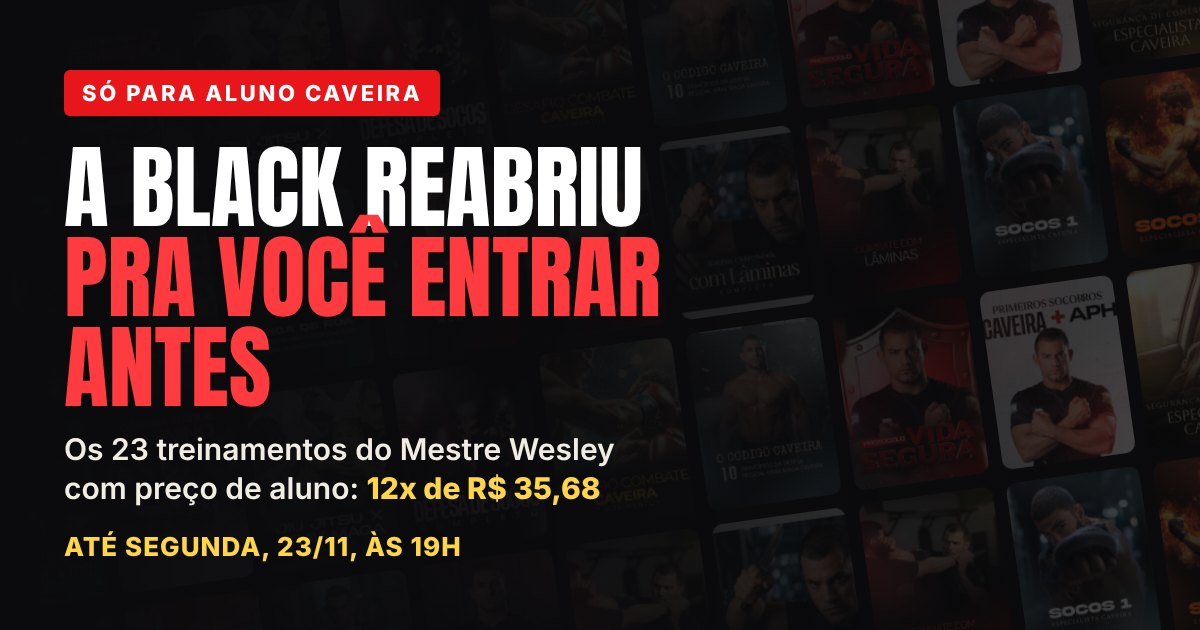
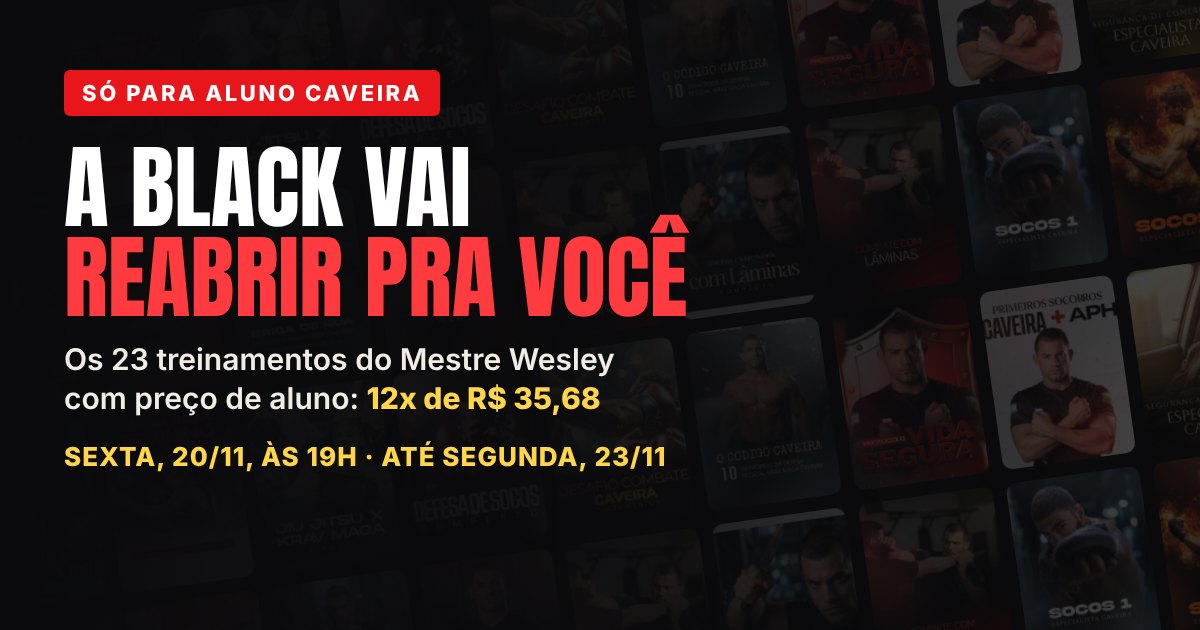
E-mail Academia v2 (vai reabrir), stories pos-enquete, modelo de acesso v2
Claude-Session: https://claude.ai/code/session_01ShBYSwBMVNtHb9FwppkWCb

Changed region(s): [[0.0308, 0.2111, 0.5858, 0.6635], [0.0308, 0.6937, 0.555, 0.8143], [0.0308, 0.8444, 0.4008, 0.9048]]

diff --git a/conteudo/2026-11-19/stories/_src/stories.html b/conteudo/2026-11-19/stories/_src/stories.html
@@ -1,0 +1,84 @@
+<!doctype html><html><head><meta charset="utf-8"><style>
+@font-face{font-family:Anton;src:url(Anton.ttf)}
+*{box-sizing:border-box;margin:0;padding:0}
+body{background:#000}
+:root{--r:#e10600;--y:#ffd400}
+.s{position:relative;width:1080px;height:1920px;overflow:hidden;background:#0b0b0b;font-family:Inter,sans-serif;color:#fff}
+.bg{position:absolute;inset:0;background-size:cover}
+.abs{position:absolute}
+.safe{position:absolute;left:110px;width:835px}
+.tag{display:inline-block;background:var(--r);font:700 38px Inter;letter-spacing:3px;padding:14px 28px;border-radius:8px}
+.h{font-family:Anton;text-transform:uppercase;line-height:1.02}
+.y{color:var(--y)}.red{color:var(--r)}
+.small{font:600 44px/1.3 Inter}
+.date{background:var(--y);color:#000;font:800 52px Inter;padding:22px 34px;border-radius:12px;display:inline-block}
+.brand{position:absolute;left:0;width:1080px;text-align:center;top:1385px;font:700 30px Inter;letter-spacing:4px;color:#ffffffaa}
+.card{display:flex;align-items:center;gap:30px;background:#161616;border:3px solid #333;border-left:16px solid var(--r);border-radius:20px;padding:20px 30px;margin-bottom:22px}
+.card .n{font-family:Anton;font-size:110px;line-height:1;color:var(--y);min-width:150px;text-align:center}
+.card .t{font:700 42px/1.15 Inter}
+.card .t small{display:block;font:500 32px/1.25 Inter;color:#ccc;margin-top:8px}
+.grid{display:grid;grid-template-columns:1fr 1fr 1fr;gap:22px}
+.grid img{width:100%;border-radius:16px;display:block;border:3px solid #2a2a2a}
+.more{background:var(--r);border-radius:16px;display:flex;align-items:center;justify-content:center;text-align:center;font:400 64px/1.05 Anton;text-transform:uppercase;aspect-ratio:1}
+</style></head><body>
+
+<!-- 1 -->
+<div class="s" id="s1">
+ <div class="bg" style="background-image:url(hero.jpg);background-position:62% 50%;background-size:auto 100%"></div>
+ <div class="abs" style="inset:0;background:linear-gradient(180deg,#000c 0%,#0000 28%,#000d 55%,#000 82%)"></div>
+ <div class="safe" style="top:300px"><span class="tag">BLACK CAVEIRA 2026</span></div>
+ <div class="safe" style="top:600px">
+  <div class="h" style="font-size:190px">A BLACK<br>CAVEIRA<br><span class="red">VAI VOLTAR</span></div>
+  <div style="height:44px"></div>
+  <div class="date">SEXTA, 20/11, ÀS 19H</div>
+  <div class="small" style="margin-top:36px;color:#eee">Respondeu NÃO na enquete? Essa é a sua segunda chance.</div>
+ </div>
+</div>
+
+<!-- 2 -->
+<div class="s" id="s2">
+ <div class="bg" style="background:radial-gradient(circle at 50% 0%,#5a0000 0%,#0b0b0b 60%)"></div>
+ <div class="safe" style="top:300px">
+  <span class="tag">SEXTA, 20/11, A PARTIR DAS 19H</span>
+  <div class="h" style="font-size:104px;margin-top:26px">QUEM ENTRAR<br><span class="y">PRIMEIRO</span> LEVA<br>PRÊMIO</div>
+ </div>
+ <div class="safe" style="top:760px">
+  <div class="card"><div class="n">3</div><div class="t">primeiros pagamentos aprovados<small>ganham a camisa Caveira</small></div></div>
+  <div class="card"><div class="n">20</div><div class="t">primeiros entram num encontro ao vivo<small>com o Mestre Wesley</small></div></div>
+  <div class="card"><div class="n">6</div><div class="t">livros digitais do Mestre<small>para quem garantir até 23h59 de sexta</small></div></div>
+ </div>
+</div>
+
+<!-- 3 -->
+<div class="s" id="s3">
+ <div class="bg" style="background:radial-gradient(circle at 50% 100%,#4a0000 0%,#0b0b0b 65%)"></div>
+ <div class="safe" style="top:300px">
+  <span class="tag">MESTRE WESLEY GIMENEZ</span>
+  <div class="h" style="font-size:112px;margin-top:26px"><span class="y">23</span> TREINAMENTOS<br>NUM SÓ LUGAR</div>
+ </div>
+ <div class="safe" style="top:700px">
+  <div class="grid">
+   <img src="curso_vida_segura-1.jpg"><img src="curso_dpc2-5.jpg"><img src="curso_contra_ataque_feminino-6.jpg">
+   <img src="curso_modo_caveira-7.jpg"><img src="curso_briga_rua-8.jpg"><div class="more">e<br>mais<br>18</div>
+  </div>
+  <div class="small" style="margin-top:34px;font-size:40px">Aprenda a se proteger e a proteger sua família. Certificado ao concluir e 7 dias de garantia.</div>
+ </div>
+</div>
+
+<!-- 4 -->
+<div class="s" id="s4">
+ <div class="bg" style="background-image:url(hero.jpg);background-position:70% 50%;background-size:auto 100%;filter:brightness(.55)"></div>
+ <div class="abs" style="inset:0;background:linear-gradient(180deg,#000b 0%,#0007 40%,#000e 80%)"></div>
+ <div class="safe" style="top:300px">
+  <div class="h" style="font-size:150px">QUER SER<br>AVISADO<br><span class="y">PRIMEIRO?</span></div>
+  <div class="small" style="margin-top:44px;font-size:52px">Responde este story com a palavra abaixo e eu te mando o aviso assim que abrir:</div>
+ </div>
+ <div class="safe" style="top:1010px">
+  <div style="background:#fff;color:#000;border-radius:80px;padding:34px 48px;display:flex;align-items:center;justify-content:space-between;box-shadow:0 0 0 8px #e10600">
+   <span class="h" style="font-size:110px;letter-spacing:4px">CAVEIRA</span>
+   <span style="font:700 40px Inter;color:#e10600">enviar</span>
+  </div>
+  <div class="small" style="margin-top:50px;font-size:44px;color:#fff">Abre sexta, 20/11, às 19h.<br>Fecha segunda, 23/11, às 19h.</div>
+ </div>
+</div>
+</body></html>

diff --git a/conteudo/2026-11-19/email-academia/banner.html b/conteudo/2026-11-19/email-academia/banner.html
@@ -16,7 +16,7 @@ h1 span{color:#ff3b3f}
 </style></head><body>
 <div class="grid"><img src="https://media.atomicatmedia.net/u/yoRetjn6mOhzXGiNjxTeG9wI7g22/Pictures/mcp/AinQ/curso_kids-2.webp"><img src="https://media.atomicatmedia.net/u/yoRetjn6mOhzXGiNjxTeG9wI7g22/Pictures/mcp/AinQ/curso_contra_ataque_feminino-6.webp"><img src="https://media.atomicatmedia.net/u/yoRetjn6mOhzXGiNjxTeG9wI7g22/Pictures/mcp/AinQ/curso_jiujitsu_kravmaga-10.webp"><img src="https://media.atomicatmedia.net/u/yoRetjn6mOhzXGiNjxTeG9wI7g22/Pictures/mcp/AinQ/curso_defesa_socos-14.webp"><img src="https://media.atomicatmedia.net/u/yoRetjn6mOhzXGiNjxTeG9wI7g22/Pictures/mcp/AinQ/curso_desafio_combate-18.webp"><img src="https://media.atomicatmedia.net/u/yoRetjn6mOhzXGiNjxTeG9wI7g22/Pictures/mcp/AinQ/curso_codigo_caveira-2.webp"><img src="https://media.atomicatmedia.net/u/yoRetjn6mOhzXGiNjxTeG9wI7g22/Pictures/mcp/AinQ/curso_vida_segura-1.webp"><img src="https://media.atomicatmedia.net/u/yoRetjn6mOhzXGiNjxTeG9wI7g22/Pictures/mcp/AinQ/curso_primeiros_socorros-3.webp"><img src="https://media.atomicatmedia.net/u/yoRetjn6mOhzXGiNjxTeG9wI7g22/Pictures/mcp/AinQ/curso_seguranca_comercios-4.webp"><img src="https://media.atomicatmedia.net/u/yoRetjn6mOhzXGiNjxTeG9wI7g22/Pictures/mcp/AinQ/curso_dpc2-5.webp"><img src="https://media.atomicatmedia.net/u/yoRetjn6mOhzXGiNjxTeG9wI7g22/Pictures/mcp/AinQ/curso_modo_caveira-7.webp"><img src="https://media.atomicatmedia.net/u/yoRetjn6mOhzXGiNjxTeG9wI7g22/Pictures/mcp/AinQ/curso_briga_rua-8.webp"><img src="https://media.atomicatmedia.net/u/yoRetjn6mOhzXGiNjxTeG9wI7g22/Pictures/mcp/AinQ/curso_protocolo_mcd-9.webp"><img src="https://media.atomicatmedia.net/u/yoRetjn6mOhzXGiNjxTeG9wI7g22/Pictures/mcp/AinQ/curso_defesa_laminas-11.webp"><img src="https://media.atomicatmedia.net/u/yoRetjn6mOhzXGiNjxTeG9wI7g22/Pictures/mcp/AinQ/curso_combate_laminas-12.webp"><img src="https://media.atomicatmedia.net/u/yoRetjn6mOhzXGiNjxTeG9wI7g22/Pictures/mcp/AinQ/curso_combate_laminas2-13.webp"><img src="https://media.atomicatmedia.net/u/yoRetjn6mOhzXGiNjxTeG9wI7g22/Pictures/mcp/AinQ/curso_socos1-15.webp"><img src="https://media.atomicatmedia.net/u/yoRetjn6mOhzXGiNjxTeG9wI7g22/Pictures/mcp/AinQ/curso_socos2-16.webp"><img src="https://media.atomicatmedia.net/u/yoRetjn6mOhzXGiNjxTeG9wI7g22/Pictures/mcp/AinQ/curso_kids-2.webp"><img src="https://media.atomicatmedia.net/u/yoRetjn6mOhzXGiNjxTeG9wI7g22/Pictures/mcp/AinQ/curso_contra_ataque_feminino-6.webp"><img src="https://media.atomicatmedia.net/u/yoRetjn6mOhzXGiNjxTeG9wI7g22/Pictures/mcp/AinQ/curso_jiujitsu_kravmaga-10.webp"><img src="https://media.atomicatmedia.net/u/yoRetjn6mOhzXGiNjxTeG9wI7g22/Pictures/mcp/AinQ/curso_defesa_socos-14.webp"><img src="https://media.atomicatmedia.net/u/yoRetjn6mOhzXGiNjxTeG9wI7g22/Pictures/mcp/AinQ/curso_desafio_combate-18.webp"><img src="https://media.atomicatmedia.net/u/yoRetjn6mOhzXGiNjxTeG9wI7g22/Pictures/mcp/AinQ/curso_codigo_caveira-2.webp"><img src="https://media.atomicatmedia.net/u/yoRetjn6mOhzXGiNjxTeG9wI7g22/Pictures/mcp/AinQ/curso_vida_segura-1.webp"><img src="https://media.atomicatmedia.net/u/yoRetjn6mOhzXGiNjxTeG9wI7g22/Pictures/mcp/AinQ/curso_primeiros_socorros-3.webp"><img src="https://media.atomicatmedia.net/u/yoRetjn6mOhzXGiNjxTeG9wI7g22/Pictures/mcp/AinQ/curso_seguranca_comercios-4.webp"><img src="https://media.atomicatmedia.net/u/yoRetjn6mOhzXGiNjxTeG9wI7g22/Pictures/mcp/AinQ/curso_dpc2-5.webp"><img src="https://media.atomicatmedia.net/u/yoRetjn6mOhzXGiNjxTeG9wI7g22/Pictures/mcp/AinQ/curso_modo_caveira-7.webp"><img src="https://media.atomicatmedia.net/u/yoRetjn6mOhzXGiNjxTeG9wI7g22/Pictures/mcp/AinQ/curso_briga_rua-8.webp"><img src="https://media.atomicatmedia.net/u/yoRetjn6mOhzXGiNjxTeG9wI7g22/Pictures/mcp/AinQ/curso_protocolo_mcd-9.webp"><img src="https://media.atomicatmedia.net/u/yoRetjn6mOhzXGiNjxTeG9wI7g22/Pictures/mcp/AinQ/curso_defesa_laminas-11.webp"><img src="https://media.atomicatmedia.net/u/yoRetjn6mOhzXGiNjxTeG9wI7g22/Pictures/mcp/AinQ/curso_combate_laminas-12.webp"><img src="https://media.atomicatmedia.net/u/yoRetjn6mOhzXGiNjxTeG9wI7g22/Pictures/mcp/AinQ/curso_combate_laminas2-13.webp"><img src="https://media.atomicatmedia.net/u/yoRetjn6mOhzXGiNjxTeG9wI7g22/Pictures/mcp/AinQ/curso_socos1-15.webp"><img src="https://media.atomicatmedia.net/u/yoRetjn6mOhzXGiNjxTeG9wI7g22/Pictures/mcp/AinQ/curso_socos2-16.webp"></div><div class="fade"></div>
 <div class="box"><div class="tag">SÓ PARA ALUNO CAVEIRA</div>
-<h1>A Black reabriu<br><span>pra você entrar antes</span></h1>
+<h1>A Black vai<br><span>reabrir pra você</span></h1>
 <div class="p">Os 23 treinamentos do Mestre Wesley<br>com preço de aluno: <b>12x de R$ 35,68</b></div>
-<div class="fim">ATÉ SEGUNDA, 23/11, ÀS 19H</div></div>
+<div class="fim">SEXTA, 20/11, ÀS 19H · ATÉ SEGUNDA, 23/11</div></div>
 </body></html>

diff --git a/conteudo/2026-11-19/stories/render.py b/conteudo/2026-11-19/stories/render.py
@@ -1,0 +1,11 @@
+import asyncio,sys
+from playwright.async_api import async_playwright
+D='/home/claude/agente-wg/conteudo/2026-11-19/stories/'
+async def m():
+    async with async_playwright() as p:
+        b=await p.chromium.launch(); pg=await b.new_page(viewport={'width':1080,'height':1920})
+        await pg.goto('file://'+D+'_src/stories.html'); await pg.wait_for_timeout(800)
+        for i in range(1,5):
+            await pg.locator(f'#s{i}').screenshot(path=D+f'0{i}.jpg',type='jpeg',quality=93)
+        await b.close()
+asyncio.run(m())

diff --git a/conteudo/2026-11-19/email-academia/copy.md b/conteudo/2026-11-19/email-academia/copy.md
@@ -1,10 +1,11 @@
-# E-mail para a base da Academia · quinta 19/11, 18h a 18h30
+# E-mail para a base da Academia · quinta 19/11, 18h a 18h30 (v2, 13h50)
 
-Base: skills copy-conversacional-wg (nível de consciência 4 e 5: aluno que já conhece o Wesley) e oferta-irresistivel (resultado, itens com valor, garantia, para quem é, um CTA).
+Pedido do Victor (13h41): não dizer que já abriu (efeito tsunami na sexta 19h, por causa dos prêmios). Mensagem: "Só para Aluno Caveira: a Black vai reabrir pra você que ainda não entrou". Botão leva ao grupo de espera; número de suporte para quem quiser garantir antes.
+Base: skills copy-conversacional-wg (aluno já conhece o Wesley: direto ao que ganha, preço só dele e motivo real para agir) e oferta-irresistivel (itens, garantia, prêmios como bônus que resolvem "por que agora", um CTA).
 Método: igual aos disparos de 12/11 e 14/11 (modelo "Boas-vindas de compra" da Cademi, remetente "Mestre Wesley", reenvio de acesso). Fora do envio: todo aluno com a entrega da Black #275158 (já comprou). Modelo volta ao texto padrão no fim.
 
 ## Imagem do topo
-banner.jpg (capas dos cursos ao fundo): "SÓ PARA ALUNO CAVEIRA · A BLACK REABRIU PRA VOCÊ ENTRAR ANTES · Os 23 treinamentos do Mestre Wesley com preço de aluno: 12x de R$ 35,68 · ATÉ SEGUNDA, 23/11, ÀS 19H"
+banner.jpg: "SÓ PARA ALUNO CAVEIRA · A BLACK VAI REABRIR PRA VOCÊ · Os 23 treinamentos com preço de aluno: 12x de R$ 35,68 · SEXTA, 20/11, ÀS 19H"
 
 ## Abertura
 O Mestre Wesley tem um recado importante pra você!
@@ -12,7 +13,7 @@ O Mestre Wesley tem um recado importante pra você!
 ## Texto
 Shalom, tudo bem?
 
-Depois que a Black Caveira fechou, muito aluno me escreveu dizendo que não conseguiu entrar a tempo. A reabertura oficial é amanhã, sexta, às 19h. Mas você já é meu aluno, então eu liberei pra você entrar antes de todo mundo, a partir de agora.
+Depois que a Black Caveira fechou, muito aluno me escreveu dizendo que não conseguiu entrar a tempo. Então eu decidi: amanhã, sexta-feira, às 19h, a Black vai reabrir por pouco tempo, e quem já é meu aluno entra com preço especial.
 
 **O que você leva:**
 ✅ Os 23 treinamentos do Método Caveira: defesa pessoal, proteção da família, defesa contra faca, golpes e preparo físico e mental
@@ -22,22 +23,27 @@ Depois que a Black Caveira fechou, muito aluno me escreveu dizendo que não cons
 ✅ 7 dias de garantia: se não for pra você, devolvo o seu dinheiro
 
 **Preço de aluno:** 12x de R$ 35,68 ou R$ 347 à vista (quem não é aluno paga R$ 397).
-Na página, toque em **"Já sou aluno Caveira"** e confirme o seu e-mail para liberar o seu preço.
+**Quer mais tempo de acesso?** Na hora do pagamento você escolhe: ampliar para 2 anos (+ R$ 97) ou deixar vitalício (+ R$ 197). E ainda pode levar o Guia de Treino de 12 semanas, que monta a sua rotina.
 
-**Quer mais tempo de acesso?** Na hora do pagamento você escolhe: ampliar para 2 anos (+ R$ 97) ou deixar vitalício (+ R$ 197). E ainda pode levar o Guia de Treino de 12 semanas, que monta a sua rotina de estudo.
+**🎁 Presente pra quem chegar primeiro, a partir das 19h de sexta:**
+👕 Os 3 primeiros pagamentos aprovados ganham a camisa Caveira
+🎥 Os 20 primeiros entram num encontro ao vivo comigo
+📚 Quem garantir até 23h59 de sexta leva os meus 6 livros digitais
 
-[PRÊMIOS: ver decisão 1]
+A reabertura vai de sexta, 20/11, às 19h, até segunda, 23/11, às 19h. Depois disso, sai do ar.
 
-A condição de aluno vale até **segunda, 23/11, às 19h**. Depois disso, sai do ar.
+O link sai primeiro no grupo oficial. Entra agora pra receber na frente:
 
-**Botão:** QUERO ENTRAR COM PREÇO DE ALUNO
-https://www.wesleygimenez.com.br/black-caveira-2026?utm_source=vc&utm_medium=email-academia&utm_campaign=reabertura-2011&utm_content=alunos-antecipado-1911&utm_term=ag-ofertas
+**Botão:** QUERO ENTRAR NO GRUPO E RECEBER O LINK
+https://devzapp.com.br/r/s9mRreup?utm_source=vc&utm_medium=email-academia&utm_campaign=reabertura-2011&utm_content=alunos-quinta&utm_term=ag-ofertas
+
+Ficou com alguma dúvida ou quer falar com a minha equipe? Chama no WhatsApp do suporte: (31) 99329-4274.
 
 Tamo junto, Caveira!
 Mestre Wesley
 
 ## Caixa em destaque (do modelo da Cademi)
-ALUNO CAVEIRA ENTRA ANTES · 12x de R$ 35,68 ou R$ 347 · ATÉ SEGUNDA, 23/11, ÀS 19H
+SÓ PARA ALUNO CAVEIRA · A BLACK REABRE SEXTA, 20/11, ÀS 19H · Preço de aluno: 12x de R$ 35,68 ou R$ 347
 
 ## Por que essa oferta funciona
-O aluno já confia no Wesley (consciência alta), então o e-mail vai direto ao que ele ganha, ao preço que só ele tem e a um motivo real para decidir agora: entrar antes de todo mundo e o prazo de segunda. A garantia tira o risco, e os adicionais deixam quem quer mais escolher sem complicar a oferta principal.
+O aluno já confia no Wesley, então o e-mail vai direto ao que ele leva e ao preço que só ele tem. Os prêmios dos primeiros e o horário marcado concentram as compras às 19h de sexta, e o prazo real de segunda dá o motivo para não deixar para depois. A garantia tira o risco.

diff --git a/conteudo/2026-11-19/stories/sequencia.md b/conteudo/2026-11-19/stories/sequencia.md
@@ -1,0 +1,21 @@
+# Stories de hoje (19/11) · preparar a reabertura de sexta 20/11 às 19h
+
+Status: PREPARADO, nada agendado e nada publicado. Aguarda OK do Victor. Tipo STORY, só imagem, sem legenda, sem figurinha de link nem enquete. Arte 1080x1920 JPG, texto dentro de Y 285 a 1470 e X 110 a 945.
+
+## Lógica
+A enquete do Victor (~13h45) abre o assunto ("conseguiu aproveitar?"). A sequência responde em 4 passos: 1) a Black volta e quando; 2) o que ganha quem entra primeiro; 3) o que está dentro (23 treinamentos); 4) pedido único: responder o story com CAVEIRA para ser avisado primeiro. Nenhum story diz que a página está aberta, nenhum tem link ou preço. Todos terminam em "sexta, 19h".
+
+| # | Arquivo | Horário | Texto na arte | Função |
+|---|---|---|---|---|
+| 1 | 01.jpg | 15h30 | BLACK CAVEIRA 2026 / A BLACK CAVEIRA VAI VOLTAR / SEXTA, 20/11, ÀS 19H / Respondeu NÃO na enquete? Essa é a sua segunda chance. | Liga com a enquete e dá a data |
+| 2 | 02.jpg | 17h30 | SEXTA, 20/11, A PARTIR DAS 19H / QUEM ENTRAR PRIMEIRO LEVA PRÊMIO / 3 primeiros pagamentos aprovados ganham a camisa Caveira / 20 primeiros entram num encontro ao vivo com o Mestre Wesley / 6 livros digitais do Mestre para quem garantir até 23h59 de sexta | Desejo e urgência |
+| 3 | 03.jpg | 19h30 | MESTRE WESLEY GIMENEZ / 23 TREINAMENTOS NUM SÓ LUGAR (capas) / Aprenda a se proteger e a proteger sua família. Certificado ao concluir e 7 dias de garantia. | Mostra o que é a oferta, sem preço |
+| 4 | 04.jpg | 20h45 | QUER SER AVISADO PRIMEIRO? / Responde este story com a palavra abaixo e eu te mando o aviso assim que abrir: CAVEIRA (barra de resposta) / Abre sexta, 20/11, às 19h. Fecha segunda, 23/11, às 19h. | Pedido único: responder CAVEIRA |
+
+Espaçamento de 2 h entre 1, 2 e 3 e 1h15 até o 4, para o CAVEIRA ser o último que a pessoa vê à noite.
+
+## Atenção (decisões do Victor)
+1. **CAVEIRA em resposta de story:** a skill `wg-manychat-funis` lista "resposta a story" entre os funis do Instagram com CAVEIRA/BC, e a nota do Corredor Polonês prevê o arrastão assim. Mas não consegui confirmar daqui que a resposta de story com CAVEIRA hoje leva ao grupo de espera. O Victor deve mandar CAVEIRA de outra conta em um story antigo e ver se cai no ManyChat antes de postar o 4. Se não funcionar, trocar a arte 4 por "Ativa as notificações do meu perfil que eu te aviso" (posso refazer em minutos).
+2. **Arrastão (regra black-lancamento-wg):** o pedido de CAVEIRA conta como um dos 2 arrastões da campanha, e o plano era o arrastão de sexta às 9h. Se o Victor quiser guardar o de sexta, postar só 1 a 3 hoje.
+3. **Capas:** usei só as 5 capas sem criança. A capa Kids ficou de fora (tem foto de criança, `marca-limites-wg`).
+4. Prêmios e prazos vêm do pedido do Victor de 19/11; "23 treinamentos", certificado e garantia de 7 dias vêm das regras do repositório. Preço fica fora, de propósito.

diff --git a/memoria/passagem.md b/memoria/passagem.md
@@ -257,3 +257,9 @@ Modelo:
 - Checkouts Greenn 145095 e 145096: faixa "ATÉ SEGUNDA, 23/11, ÀS 19H · Finalize agora e garanta seus prêmios." Botão de WhatsApp do checkout: (31) 99329-4274. O relógio da Greenn só aceita minutos por pessoa (15 min); não conta até uma data.
 - Régua do Gui (artifact 7bB5X8EHDA7ZgYqGqNe9JX, versão 13): prazo de segunda, mensagens de domingo e segunda, DPC passou para terça 24/11.
 - E-mail da Academia: copy e banner em conteudo/2026-11-19/email-academia (copy.md, banner.jpg). Disparo 18h a 18h30 depois do "pode mandar" do Victor e da decisão sobre prêmios.
+
+## 2026-11-19 13h55 · E-mail v2, modelo de acesso, stories
+- Victor (13h41): não dizer aos alunos que já abriu (tsunami na sexta 19h por causa dos prêmios). E-mail v2: "a Black vai reabrir pra você", botão para o grupo de espera, suporte (31) 99329-4274 no fim. Banner refeito.
+- Modelo caveira_acesso_academia_v2 aprovado pela Meta e colocado na automação "WPP - Acesso pós-compra (Greenn e Hotmart)". Publicado.
+- Stories (social-media-wg): 4 artes em conteudo/2026-11-19/stories (sequencia.md), para 15h30, 17h30, 19h30 e 20h45. Não programadas: esperam OK do Victor. O 4 pede resposta CAVEIRA no story; confirmar se o funil de resposta a story do ManyChat leva ao grupo.
+- Atenção: o atendente ainda vende na hora para quem pede (decisão das 12h38); o e-mail não fala disso.
